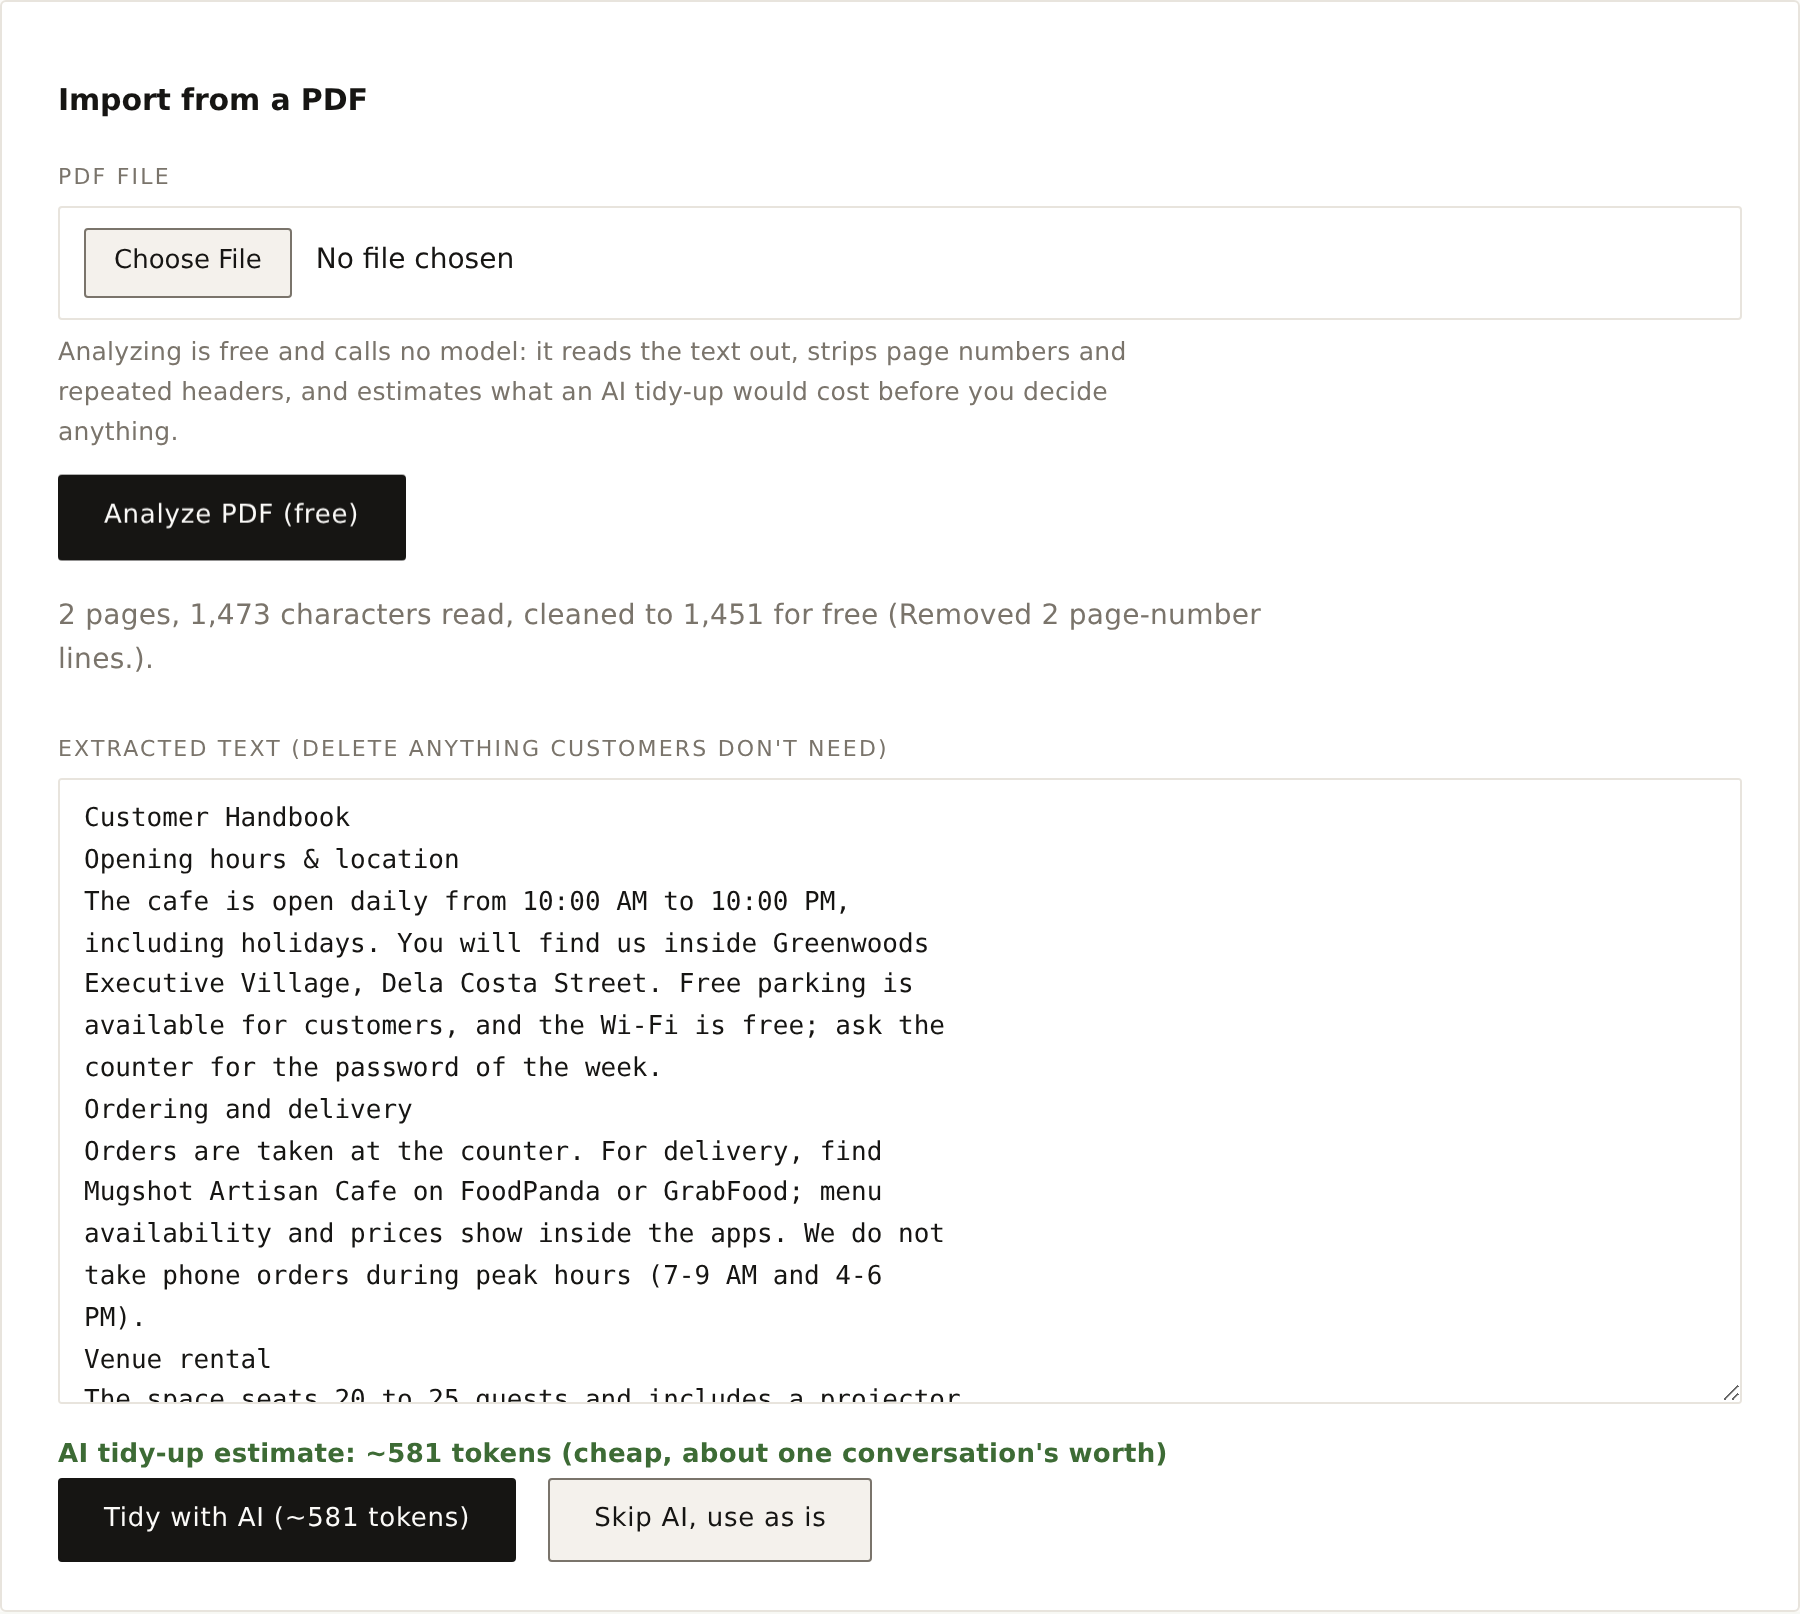
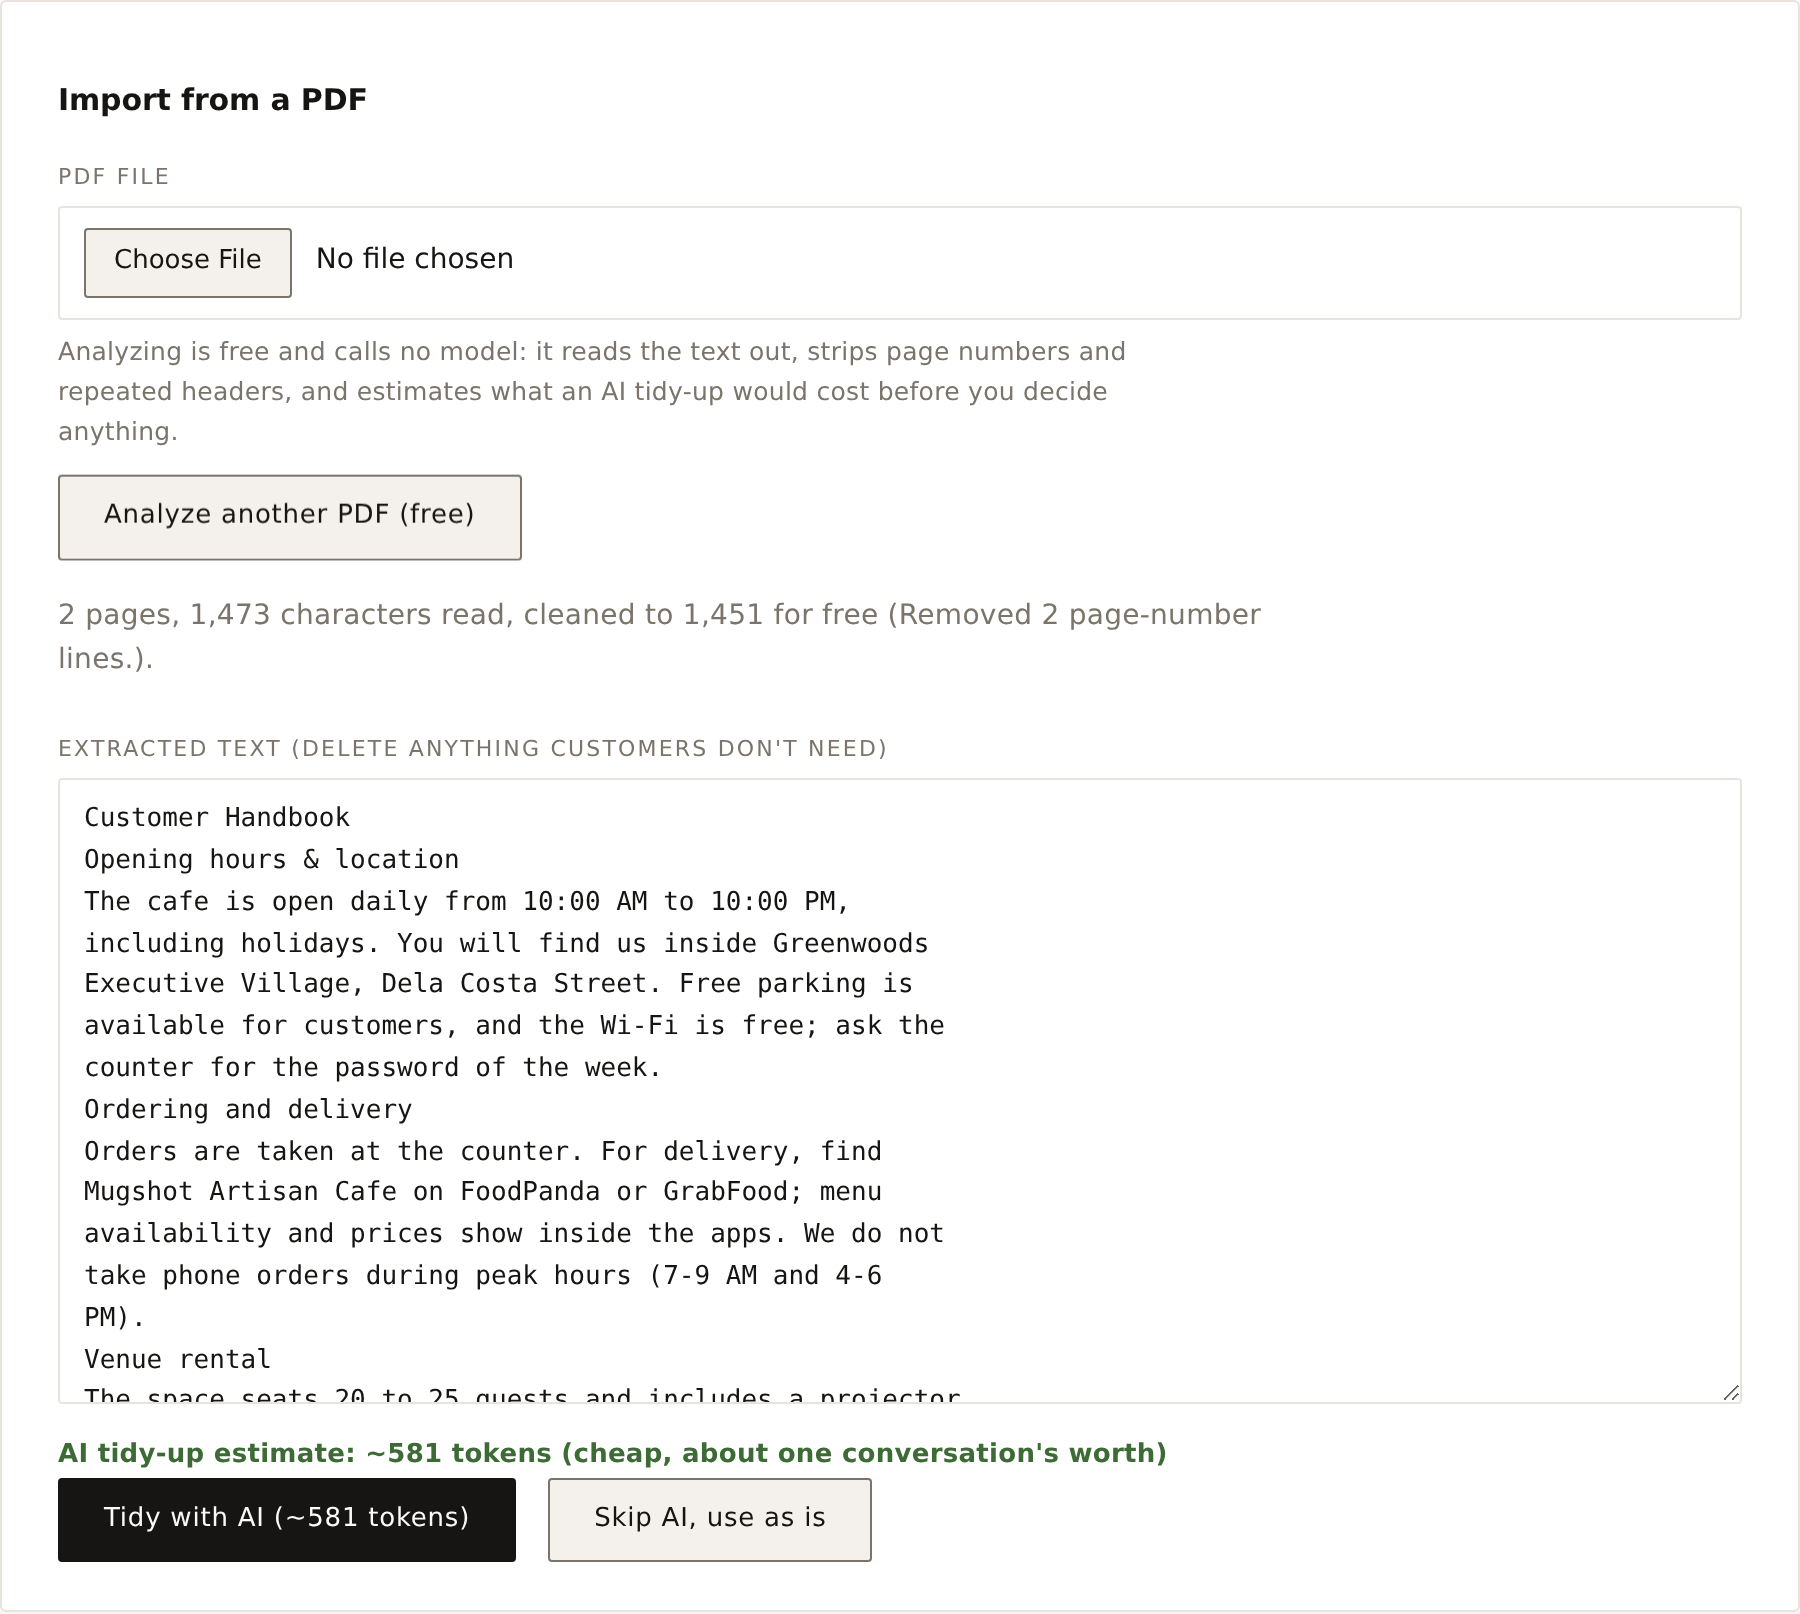
fix - admin: one black primary per pdf-import step + polish floor
The analyze button demotes to a ghost once a file is analyzed, so each
step shows exactly one black primary (the design's hierarchy rule, now
written down in .claude/skills/michi-chat-admin-design). The polish
max_tokens gets a 6k floor: small inputs need headroom on providers
that leak thinking tokens. Docs screenshots refreshed.

Changed region(s): [[0.0311, 0.2788, 0.2489, 0.3717]]

diff --git a/src/app/admin/tenants/[id]/kb/PdfImport.tsx b/src/app/admin/tenants/[id]/kb/PdfImport.tsx
@@ -72,8 +72,10 @@ export function PdfImport({ tenantId }: { tenantId: string }) {
           decide anything.
         </small>
         <div className="actions" style={{ marginTop: 12 }}>
-          <button type="submit" disabled={analyzing}>
-            {analyzing ? "Reading…" : "Analyze PDF (free)"}
+          {/* One black primary per step: once a file is analyzed, the next step's button
+              takes the lead and this one steps back to a ghost. */}
+          <button type="submit" className={stage === "pick" ? undefined : "ghost"} disabled={analyzing}>
+            {analyzing ? "Reading…" : stage === "pick" ? "Analyze PDF (free)" : "Analyze another PDF (free)"}
           </button>
           {analysis && "error" in analysis && <span className="error">{analysis.error}</span>}
         </div>

diff --git a/src/app/admin/actions.ts b/src/app/admin/actions.ts
@@ -451,7 +451,9 @@ export async function polishKbTextAction(tenantId: string, _prev: unknown, formD
       // Runaway guard: cleanup output should be SMALLER than its input. On a provider
       // that leaks thinking tokens this truncates into a visible error instead of a
       // silent bill (prod's aliases carry enable_thinking:false in litellm config).
-      max_tokens: Math.min(16_384, estimateTokens(text.length) + 2_048),
+      // Floor of 6k: small inputs still need room (a provider that leaks thinking
+      // tokens, a verbose language); the ceiling still stops a runaway on big ones.
+      max_tokens: Math.min(16_384, Math.max(6_144, estimateTokens(text.length) + 2_048)),
       messages: [
         { role: "system", content: POLISH_SYSTEM_PROMPT },
         { role: "user", content: text },
